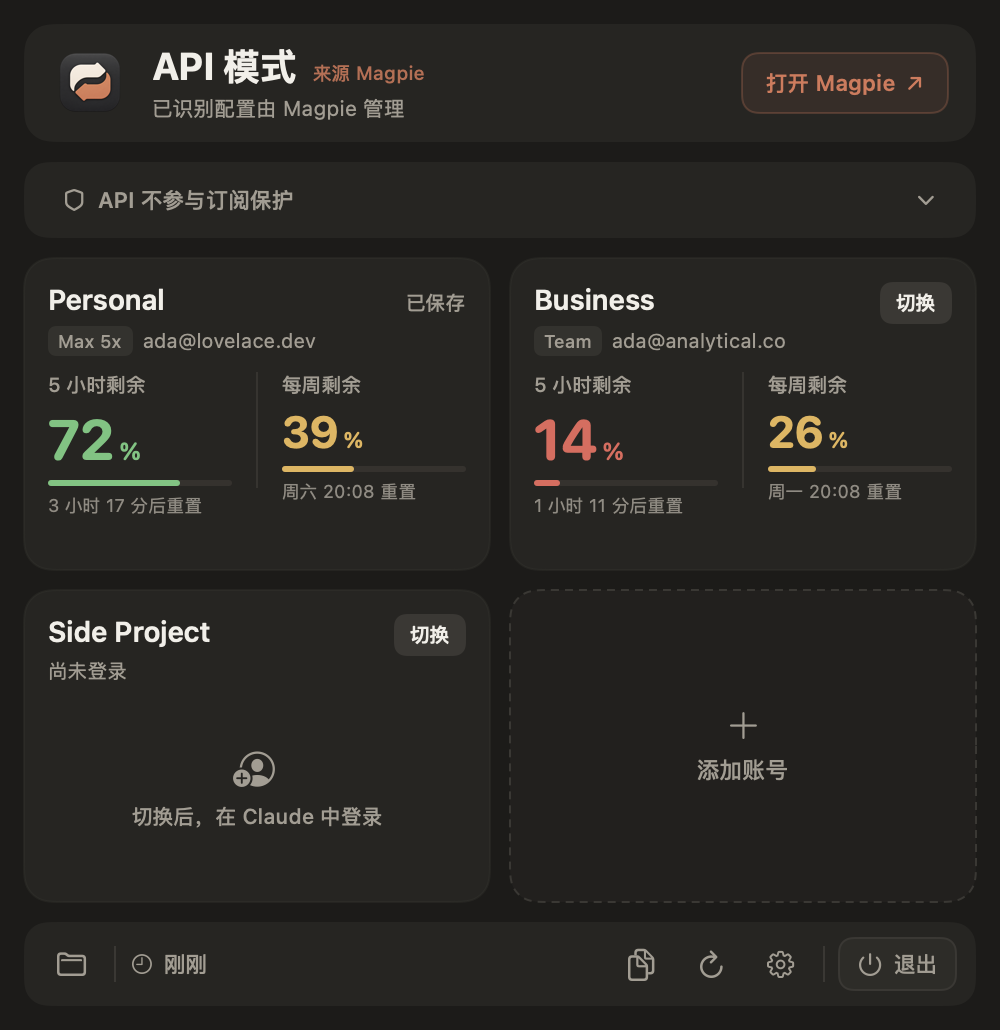
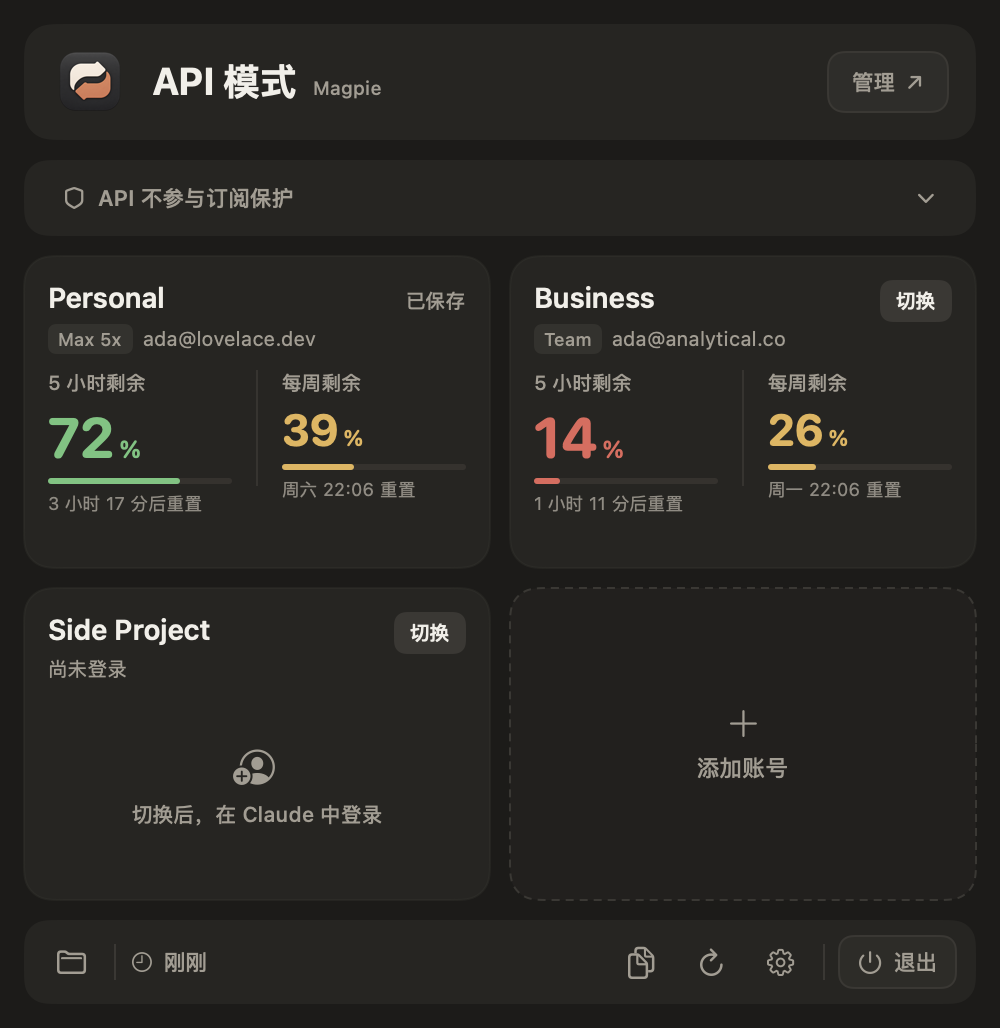
ui: let Kimi deduplicate API sources and quiet manager actions

diff --git a/App/Views.swift b/App/Views.swift
@@ -211,6 +211,7 @@ struct Header: View {
     private var subscriptionDesktop: Bool { protection.desktopScope == .subscription }
 
     private var sourceName: String? {
+        guard protection.desktopScope == .api else { return nil }
         switch protection.apiConfiguration {
         case .magpie: return "Magpie"
         case .ccSwitch: return "CC Switch"
@@ -226,20 +227,23 @@ struct Header: View {
         if protection.desktopScope != .api { return appText("api.unrecognized", language: language) }
         switch protection.apiConfiguration {
         case .magpie, .ccSwitch:
-            return appText("api.source", language: language, arguments: ["source": sourceName ?? ""])
+            return sourceName ?? ""
         case .conflict: return appText("api.sourceConflict", language: language)
         case .subscription, .unknownAPI, .unconfirmed: return appText("api.sourceUnconfirmed", language: language)
         }
     }
 
-    private var modeDetail: String {
+    private var modeDetail: String? {
         guard protection.desktopScope == .api else { return appText("api.unknownDetail", language: language) }
-        if let sourceName { return appText("api.managedBy", language: language, arguments: ["source": sourceName]) }
-        return appText(protection.apiConfiguration == .conflict ? "api.sourceConflict" : "api.sourceUnconfirmed", language: language)
+        switch protection.apiConfiguration {
+        case .magpie, .ccSwitch: return nil
+        case .conflict: return appText("api.conflictDetail", language: language)
+        case .subscription, .unknownAPI, .unconfirmed: return appText("api.unconfirmedDetail", language: language)
+        }
     }
 
     private var managerHelp: String {
-        appText("api.managerHelp", language: language)
+        appText("api.managerHelp", language: language, arguments: ["source": sourceName ?? ""])
             + (store.isDemo ? "\n" + appText("desktop.demo", language: language) : "")
     }
 
@@ -247,14 +251,14 @@ struct Header: View {
         if let sourceName {
             Button { Task { await store.openAPIManager() } } label: {
                 HStack(spacing: 5) {
-                    Text(appText("api.openManager", language: language, arguments: ["source": sourceName]))
-                        .font(.system(size: 11, weight: .semibold)).lineLimit(1).fixedSize()
+                    Text(appText("api.manage", language: language))
+                        .font(.system(size: 11, weight: .medium)).lineLimit(1).fixedSize()
                     Image(systemName: "arrow.up.right").font(.system(size: 8.5, weight: .bold))
                 }
-                .foregroundColor(.claude)
+                .foregroundColor(openHover ? .txt : .sub)
                 .padding(.horizontal, 12).frame(height: 30)
-                .background(RoundedRectangle(cornerRadius: 8).fill(Color.claude.opacity(openHover ? 0.2 : 0.1)))
-                .overlay(RoundedRectangle(cornerRadius: 8).stroke(Color.claude.opacity(0.26), lineWidth: 1))
+                .background(RoundedRectangle(cornerRadius: 8).fill(Color.sub.opacity(openHover ? 0.14 : 0.07)))
+                .overlay(RoundedRectangle(cornerRadius: 8).stroke(Color.stroke, lineWidth: 1))
                 .contentShape(RoundedRectangle(cornerRadius: 8))
             }
             .buttonStyle(.plain)
@@ -319,11 +323,13 @@ struct Header: View {
                     HStack(alignment: .firstTextBaseline, spacing: 7) {
                         Text(modeTitle).font(.system(size: 19, weight: .bold)).foregroundColor(.txt).lineLimit(1)
                         Text(sourceTag).font(.system(size: 9.5, weight: .medium))
-                            .foregroundColor(sourceName == nil ? .warn : .claude.opacity(0.85))
+                            .foregroundColor(sourceName == nil ? .warn : .sub)
                             .lineLimit(1).fixedSize()
                     }
-                    Text(modeDetail).font(.system(size: 10.5)).foregroundColor(.sub)
-                        .lineLimit(1).truncationMode(.middle)
+                    if let modeDetail {
+                        Text(modeDetail).font(.system(size: 10.5)).foregroundColor(.sub)
+                            .lineLimit(1).truncationMode(.middle)
+                    }
                 }
             }
             Spacer(minLength: 8)

diff --git a/App/AppLocalization.swift b/App/AppLocalization.swift
@@ -406,11 +406,14 @@ enum AppLocalization {
             "api.source": "来源 {source}",
             "api.sourceConflict": "来源有冲突",
             "api.sourceUnconfirmed": "来源未确认",
-            "api.unknownDetail": "无法确认桌面配置",
+            "api.unknownDetail": "请先确认桌面配置",
+            "api.unconfirmedDetail": "请通过原工具查看配置",
+            "api.conflictDetail": "请先解决配置冲突",
             "api.managedBy": "已识别配置由 {source} 管理",
-            "api.managerHelp": "打开原 API 管理器；此处不改模式、模型或密钥。",
+            "api.managerHelp": "打开 {source}；此处不改模式、模型或密钥。",
             "api.subscriptionUsageHelp": "这里读取已保存账号的订阅额度，不是 API 额度；不会修改 API 管理器配置。",
             "api.openManager": "打开 {source}",
+            "api.manage": "管理",
             "api.desktopTitle": "桌面 API",
             "api.desktopConfiguration": "桌面配置",
             "api.desktopManagedBy": "配置由 {source} 管理",
@@ -758,11 +761,14 @@ enum AppLocalization {
             "api.source": "Source: {source}",
             "api.sourceConflict": "Conflicting sources",
             "api.sourceUnconfirmed": "Source unconfirmed",
-            "api.unknownDetail": "Desktop configuration cannot be confirmed",
+            "api.unknownDetail": "Confirm the desktop configuration first",
+            "api.unconfirmedDetail": "Check the configuration in its original tool",
+            "api.conflictDetail": "Resolve the configuration conflict first",
             "api.managedBy": "Recognized configuration managed by {source}",
-            "api.managerHelp": "Open the original API manager; no mode, model, or key is changed here.",
+            "api.managerHelp": "Open {source}; no mode, model, or key is changed here.",
             "api.subscriptionUsageHelp": "This is saved profiles' subscription usage, not API usage. No API manager configuration is changed.",
             "api.openManager": "Open {source}",
+            "api.manage": "Manage",
             "api.desktopTitle": "Desktop API",
             "api.desktopConfiguration": "Desktop setup",
             "api.desktopManagedBy": "Configuration managed by {source}",

diff --git a/scripts/fixtures/unified-controls-render.swift b/scripts/fixtures/unified-controls-render.swift
@@ -84,6 +84,7 @@ actor FictionalRenderGuard: GuardWorking {
    let fullStore = Store(demo:true)
    fullStore.setAppLanguage(language)
    fullStore.cliConnection.contextDidChange()
+   try save(Header(store:fullStore,protection:fullStore.protection,openClaude:{}).environment(\.appLanguage,language).padding(12).frame(width:500).background(Color.bg),name:"header-"+language,width:500)
    try save(Panel(store:fullStore).environment(\.appLanguage,language),name:"full-panel-"+language,width:500)
    if CommandLine.arguments.contains("--fixture-protection-expanded") {
     try save(TerminalProtectionCard(store:fullStore,controller:fullStore.protection,busy:false).environment(\.appLanguage,language).padding(12).frame(width:500).background(Color.bg),name:"settings-"+language,width:500)

diff --git a/scripts/test-developer-id-release.py b/scripts/test-developer-id-release.py
@@ -23,7 +23,7 @@ class SigningChecks(unittest.TestCase):
         self.assertEqual(info["CFBundleShortVersionString"], "1.3.6")
         self.assertEqual(info["CSReleaseChannel"], "preview")
         self.assertEqual(info["CSReleaseVersion"], "1.3.6-rc.8")
-        self.assertEqual(info["CFBundleVersion"], "20261105.8.0")
+        self.assertEqual(info["CFBundleVersion"], "20261105.8.1")
         self.assertIn("预览", info["CFBundleDisplayName"])
         self.assertIn("预览", info["CFBundleName"])
         self.assertFalse(any(k.startswith("CSPreview") for k in info))

diff --git a/scripts/developer-id-release.py b/scripts/developer-id-release.py
@@ -11,7 +11,7 @@ import sys
 
 ROOT = Path(__file__).resolve().parent.parent
 RELEASE = "1.3.6-rc.8"
-BUILD = "20261105.8.0"
+BUILD = "20261105.8.1"
 DR_BASELINE_DIRECTORY = ROOT / "dist/developer-id/1.3.6-rc.6-final"
 DR_BASELINE_APP_NAME = "Claude Switcher Preview.app"
 BUNDLE_ID = "dev.claudeswitcher.candidate"

diff --git a/docs/releases/1.3.6-rc.8.md b/docs/releases/1.3.6-rc.8.md
@@ -6,6 +6,7 @@
 - 切到 A 时读取 A 对应的终端记录，切回后复用原目录；不覆盖默认登录，不改变已经运行的终端任务。普通 `claude` 命令仍使用原默认配置。
 - 当前账号的专用终端缓存也能被自动读取，避免账号已对应而额度仍只从默认目录读取。采样时间保留官方原值，其他账号的缓存不会冒充当前账号。
 - 桌面 API 模式沿用顶栏的原工具入口，下方仅显示订阅保护不参与此模式；不再展示没有目标的终端按钮，不推断 CLI 也被该工具接管。
+- 已识别来源只显示一次工具名，删除重复的来源说明，管理入口使用中性次级样式；来源未知或冲突时仍保留必要提示。
 - 暂停保护放入展开设置；API 模式仍可管理订阅守卫，设置说明其不影响 API 配置。状态失效、权限不足或读不到记录不等于退出登录。
 
 支持 Apple Silicon、macOS 13+。应用仍为 `Claude Switcher Preview.app`，原版可保留。

diff --git a/docs/releases/1.3.6-rc.8-delivery.md b/docs/releases/1.3.6-rc.8-delivery.md
@@ -1,6 +1,6 @@
 # RC8 交付验证
 
-版本 `1.3.6-rc.8`，构建 `20261105.8.0`。此记录在验证完成后更新，不把编译、签名、安装和真实账号验证混为一项。
+版本 `1.3.6-rc.8`，构建 `20261105.8.1`。此记录在验证完成后更新，不把编译、签名、安装和真实账号验证混为一项。
 
 ## 本地功能验证
 
